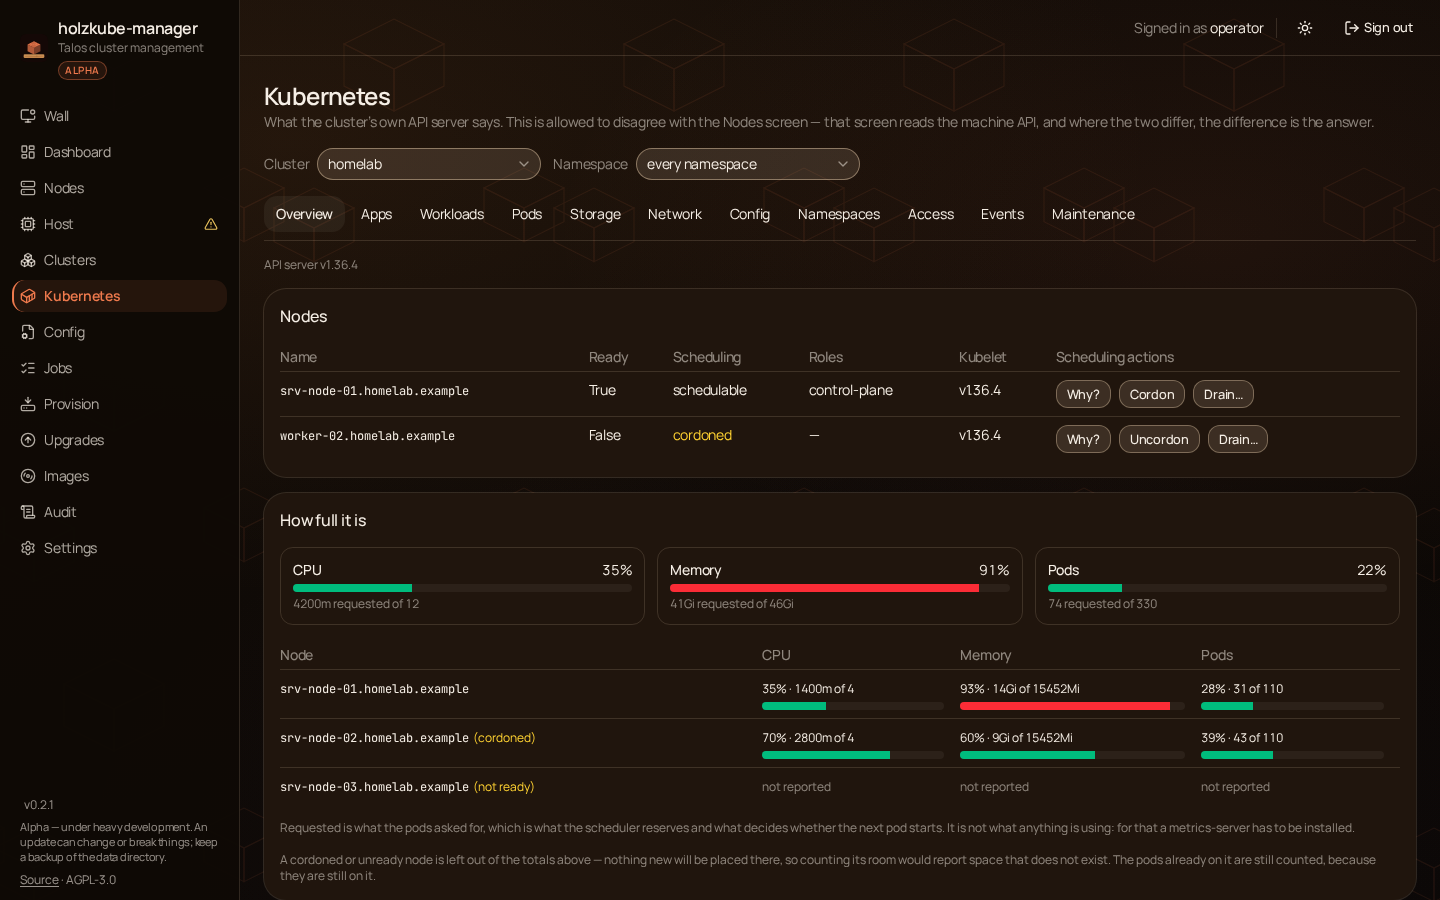
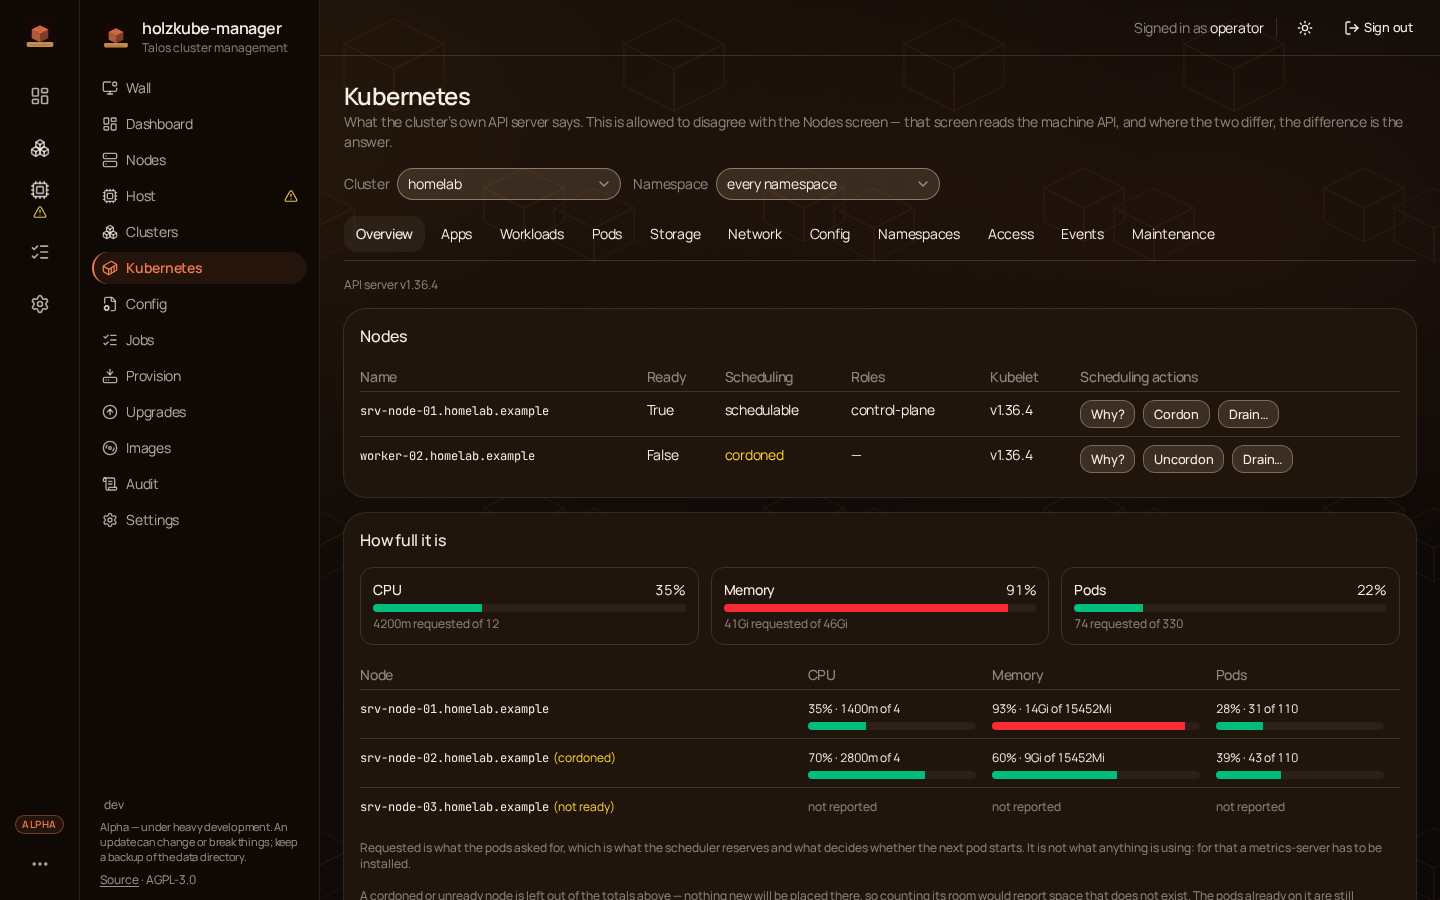
Changelog v0.3.0 and README: the 2026 redesign, with its screenshot
The release gate refuses a tag whose version is not the changelog's
first entry, and the standing rule says a feature ships with its
README in the same change. The dashboard picture is rendered, not
taken: readme-images.mjs now shoots '/' beside clusters, and every
screenshot was re-rendered against the new shell (banner, social card
and home-screen icons included).

diff --git a/README.md b/README.md
@@ -83,6 +83,15 @@ did.
 
 ## A look around
 
+**The 2026 shell.** On a desk or a tablet the navigation is an icon rail —
+Dashboard, Clusters, Host, Jobs, Settings — with every area as a labelled
+column beside it; on a phone those five are the bottom tab bar and the rest
+sit behind the menu. The dashboard shows the fleet as cards with one big
+number each: the clusters, the machines (and how many are down), and the
+instance's own state including the audit chain.
+
+![The dashboard: the fleet as cards](docs/screenshots/dashboard.png)
+
 **Apps.** What is installed on the cluster, heaviest first, and the detail of
 one: its pods, where they run, and what it used over the day.
 
